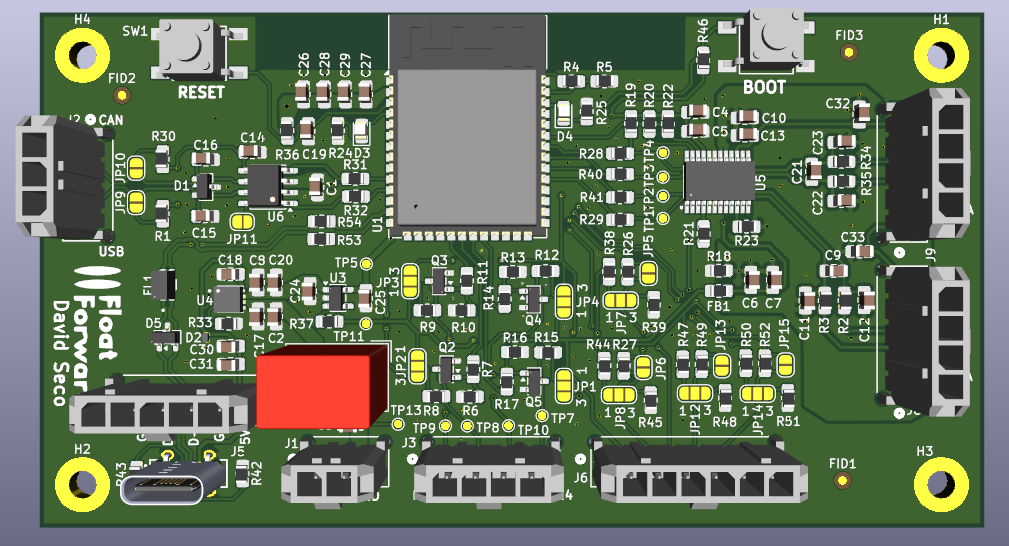
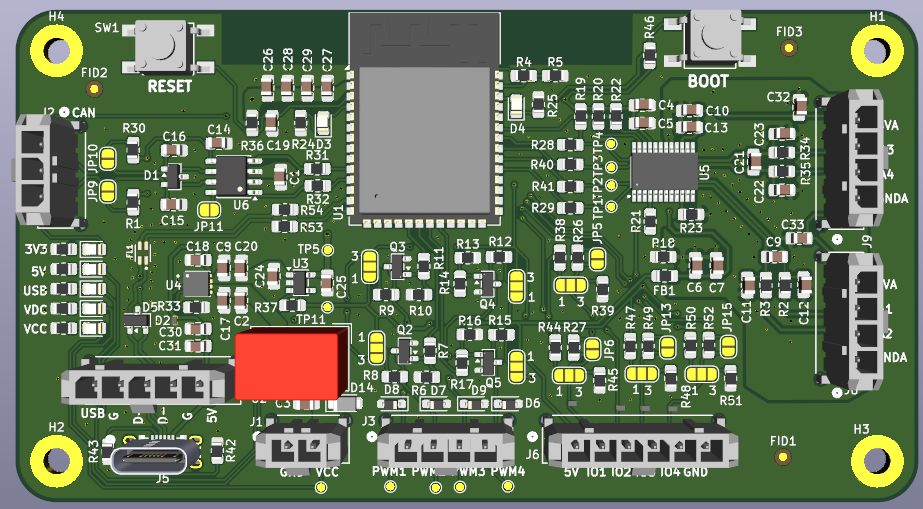
Refine ECU V2 documentation and clarify validation status

diff --git a/README.md b/README.md
@@ -1,66 +1,35 @@
 # DTU Float Forward — Embedded Control Unit
 
-Custom embedded control unit developed for the **DTU Float Forward electric racing boat**.
+Custom ECU hardware designed for the **DTU Float Forward electric racing boat**, combining sensing, communication and auxiliary control around an **ESP32-S3-WROOM module**.
 
-The ECU integrates sensing, actuator control, CAN communication and wireless telemetry around an **ESP32-S3**, providing a compact hardware platform for onboard monitoring and auxiliary control.
+> **Revision 2 status: schematic and PCB layout complete; not yet manufactured or hardware-validated.** The images are CAD renders and design exports. Earlier prototype work does not establish validation of the integrated V2 PCB.
 
-This repository documents the second hardware revision of the ECU, developed as an evolution of an earlier ESP32-S3 development-board prototype.
+![Revision 2 CAD render of the ECU PCB, top view](assets/pcb_render_top.png)
 
-## Project Context
+## Project Context and Contribution
 
 The ECU was developed as part of **DTU Float Forward**, DTU's electric racing boat project for the Monaco Energy Boat Challenge.
 
-The project combines embedded systems, electric propulsion, sensing, telemetry and energy-management development in a competition marine environment.
+I was responsible for the ECU hardware design, from system architecture and component selection to schematic design and PCB layout.
 
-## My Contribution
+## At a Glance
 
-I was responsible for the complete design of the ECU presented in this repository, from the system architecture and component selection to schematic design and PCB layout.
-
-## Repository Scope
-
-This repository is intended as a **technical portfolio and design case study**.
-
-It provides an overview of the ECU architecture and selected design decisions while intentionally excluding the complete implementation and manufacturing package.
-
-The following files are therefore **not publicly distributed**:
-
-* complete schematics
-* KiCad source files
-* PCB layout source
-* Gerber and manufacturing files
-* complete BOM
-* production firmware
-
-Selected schematic excerpts are included only where they help illustrate specific engineering decisions.
-
-## Overview
-
-The ECU is designed as a general-purpose embedded node for the boat, combining data acquisition, communication and auxiliary control in a single board.
-
-Its main functions include:
-
-* ESP32-S3 based processing and control
-* Four-channel high-resolution analog acquisition
-* CAN bus communication
-* Four configurable PWM outputs for external actuators
-* Four configurable auxiliary GPIO interfaces with support for external temperature and humidity sensor monitoring
-* Low-voltage battery monitoring
-* Native USB programming and debugging
-* Wi-Fi / MQTT telemetry
-
-![ECU PCB render](assets/pcb_render_top.png)
+| Area | Design scope |
+| --- | --- |
+| Processing | ESP32-S3-WROOM module with native USB programming/debugging |
+| Acquisition | AD7190 24-bit sigma-delta ADC with four external analog input lines |
+| Communication | CAN physical layer and Wi-Fi/MQTT telemetry |
+| Auxiliary interfaces | Four configurable PWM signal outputs and four configurable GPIO interfaces |
+| Power and monitoring | External/USB power paths, local 5 V and 3.3 V rails, auxiliary battery monitoring |
+| Firmware | ESP-IDF with modular drivers and application functionality; not included here |
 
 ## System Architecture
 
 ![ECU architecture](assets/ecu_architecture.svg)
 
-The **ESP32-S3** acts as the central controller.
+The **ESP32-S3** is the central controller. An external **AD7190** handles analog acquisition over SPI, while CAN connects the ECU to the boat network. Configurable GPIO interfaces support external sensors and pilot-interface signals, and PWM stages provide control signals for auxiliary actuators such as cooling devices.
 
-Low-level analog measurements are acquired through an external **AD7190 24-bit sigma-delta ADC**, while the CAN interface connects the ECU to the boat communication network.
-
-Additional GPIO interfaces are used for external sensors and pilot-interface signals, while configurable PWM output stages provide control signals for auxiliary actuators such as cooling devices.
-
-Telemetry data can be transmitted through Wi-Fi using MQTT.
+Wi-Fi provides the connection for MQTT telemetry. The sensors, actuators and MQTT broker shown in the diagram are external to the PCB.
 
 ## Hardware Design Highlights
 
@@ -68,135 +37,68 @@ Telemetry data can be transmitted through Wi-Fi using MQTT.
 
 ![Analog front-end](assets/schematic_blocks/analog_frontend.png)
 
-Low-level sensor acquisition is handled by an external **AD7190** rather than relying exclusively on the ESP32-S3 internal ADC.
+The external **AD7190** was selected for low-level sensor acquisition. The front-end includes RC input filtering, a filtered analog supply, local decoupling and a defined connection between analog and digital ground domains.
 
-The analog front-end provides four external inputs and includes:
+The ADC supports two differential or four pseudo-differential channels through a multiplexer. Its nominal 24-bit resolution describes the converter, rather than the achieved accuracy of the complete acquisition chain.
 
-* RC input filtering for high-frequency noise attenuation
-* filtered analog power supply
-* local decoupling
-* controlled connection between analog and digital ground domains
-* SPI communication with the ESP32-S3
-
-The architecture was designed for low-level measurements in the electrically noisy environment of an electric drivetrain.
+Reference: [Analog Devices AD7190 documentation](https://www.analog.com/en/products/ad7190.html).
 
 ### Configurable PWM Output Stages
 
 ![PWM output stages](assets/schematic_blocks/pwm_output_stages.png)
 
-Four configurable PWM output stages interface the 3.3 V ESP32-S3 logic with external actuators and control inputs.
+Each of the four channels uses an N-channel MOSFET as an open-drain-style signal output. A three-pad solder bridge selects the pull-up voltage during assembly, allowing adaptation to different actuator control inputs.
 
-Each channel uses an N-channel MOSFET as an open-drain-style output stage. A three-pad solder bridge allows the output pull-up voltage to be selected during assembly, making the same hardware compatible with different external voltage requirements.
-
-The stages intentionally invert the PWM logic, which is handled in firmware.
+The stages invert the logic, which firmware must account for. They provide control signals rather than direct motor or pump power switching.
 
 ### Configurable GPIO Interfaces
 
 ![GPIO interface](assets/schematic_blocks/gpio_interface.png)
 
-Four auxiliary GPIO channels were designed to support different external sensors, buttons and digital interfaces without requiring PCB modifications.
+Four auxiliary GPIO channels support external sensors, buttons and digital interfaces. Solder bridges provide assembly-time selection of pull-up or pull-down bias and an optional bypass of the series resistor.
 
-Each channel provides assembly-time configuration through solder bridges:
-
-* selectable pull-up or pull-down bias
-* series resistance for basic input protection
-* optional bypass of the series resistor
-
-This allows the same PCB to be adapted to different external devices during system integration.
+The series resistor limits current; external signal voltages must remain compatible with the ESP32-S3 pins.
 
 ### PCB Layout
 
-![PCB top-layer layout](assets/pcb_layout_top.png)
+![PCB layout export showing front and back copper routing](assets/pcb_layout_top.png)
 
-The PCB was organised by functional area, with particular attention to the noise-sensitive analog acquisition section, external interface accessibility and the ESP32-S3 antenna keepout.
+The layout is organised by functional area, with attention to the analog acquisition section, connector accessibility, configuration points and the module antenna region. The export shows routing on both copper layers.
 
-## Additional Design Decisions
+## Supporting Interfaces
 
-### Integrated ESP32-S3
+### CAN
 
-The first prototype used an ESP32-S3 development board to enable rapid firmware development and system validation.
+A 3.3 V CAN transceiver integrates the physical layer on the board. The interface includes ESD protection and split termination selectable through solder bridges, allowing configuration for an intermediate node or a node at a physical bus end.
 
-For the second revision, the development board was replaced by an **ESP32-S3-WROOM module directly integrated into the PCB**, reducing external wiring and allowing the complete ECU to be designed around the application requirements.
+### USB and Power
 
-### CAN Interface
+The USB-C connection uses the ESP32-S3 native USB interface for programming and debugging, avoiding an external USB-to-UART converter.
 
-The CAN physical layer is integrated directly on the board using a 3.3 V CAN transceiver.
-
-The interface includes:
-
-* ESD protection on the external bus
-* configurable split termination
-* assembly-time termination selection through solder bridges
-
-This allows the ECU to operate either as an intermediate CAN node or as a terminated node at one end of the bus.
-
-### Native USB Interface
-
-The ESP32-S3 native USB interface is used for firmware programming and debugging without requiring an external USB-to-UART converter.
-
-The board provides a USB-C interface together with protection and filtering components for connection to the microcontroller.
-
-### Power Architecture
-
-The ECU contains its own onboard power regulation.
-
-The design supports both the normal external ECU supply and USB power during development, allowing the board electronics to be programmed and tested without powering the complete boat electrical system.
-
-Local 5 V and 3.3 V rails supply the analog, digital and communication circuitry.
+The power architecture provides external-supply and USB power paths for onboard operation and bench development, with local 5 V and 3.3 V rails.
 
 ### Battery Monitoring
 
-The low-voltage battery is monitored through a dedicated resistive divider connected to an analog-capable ESP32-S3 input.
-
-This provides an independent measurement of the auxiliary battery voltage for onboard monitoring and telemetry.
+A dedicated resistive divider scales the auxiliary battery voltage for an analog-capable ESP32-S3 input, providing a separate measurement for monitoring and telemetry.
 
 ## Development
 
-The ECU was developed through an iterative prototyping process.
+**Revision 1 — Functional prototype.** An ESP32-S3 development board provided the platform for firmware development and functional prototyping of acquisition, CAN, auxiliary control and telemetry.
 
-### Revision 1 — Functional Prototype
+**Revision 2 — Integrated ECU.** The custom PCB replaces the development board with a directly mounted ESP32-S3-WROOM module and integrates the supporting interfaces, power circuitry and assembly-time configuration options. Separate connectors organise the external interfaces for system integration.
 
-The initial system was built around an ESP32-S3 development board.
-
-This version was used to develop and validate the main embedded architecture, including sensor acquisition, CAN communication, actuator control and telemetry.
-
-### Revision 2 — Integrated ECU
-
-The second revision replaces the development board with an ESP32-S3-WROOM module integrated directly onto the PCB.
-
-The redesign also integrates and refines the:
-
-* CAN physical layer
-* native USB programming interface
-* onboard power architecture
-* analog acquisition front-end
-* PWM output stages
-* configurable GPIO interfaces
-* battery monitoring circuit
-* assembly-time configuration options
-
-Revision 2 has completed the PCB design stage but **has not yet been manufactured or hardware-validated**.
+The next milestone is pre-manufacture review, followed by assembly and measured board bring-up. The [validation plan](docs/validation.md) describes the remaining checks and evidence to collect.
 
 ## Firmware
 
-The ECU firmware is developed using **ESP-IDF** and follows a modular architecture that separates hardware drivers from application-level functionality.
+The firmware uses **ESP-IDF** with a modular architecture separating hardware drivers from application functionality. Its scope includes AD7190 acquisition, cooling-system control, battery and environmental sensing, CAN, network time synchronisation and MQTT telemetry.
 
-Firmware functionality associated with the ECU includes:
+The complete boat firmware is not included. Reusable hardware drivers may be published separately as standalone projects.
 
-* AD7190 acquisition
-* cooling-system control
-* battery monitoring
-* temperature and humidity acquisition
-* CAN communication
-* network time synchronisation
-* MQTT telemetry
+## Repository Scope and Documentation
 
-The complete boat firmware is not included in this repository. Reusable hardware drivers may be published separately as standalone projects.
-
-
-## Documentation
-
-More details about the hardware development are available here:
+This repository is a **technical portfolio and design case study** containing an architecture overview, selected schematic excerpts and PCB images. Complete schematics, KiCad/PCB sources, manufacturing files and the complete BOM are excluded.
 
 - [Design Decisions](docs/design_decisions.md)
 - [Development History](docs/development.md)
+- [Validation Status and Plan](docs/validation.md)

diff --git a/docs/design_decisions.md b/docs/design_decisions.md
@@ -4,13 +4,15 @@ This document describes some of the main engineering decisions behind the second
 
 The objective of the redesign was not only to replace the development board used during prototyping, but to integrate the required sensing, communication and auxiliary-control interfaces into a compact and configurable PCB suitable for installation in the boat.
 
+> **Design status:** V2 schematic and layout are complete. The PCB has not been manufactured or hardware-validated. Benefits below describe design intent unless explicitly identified as prototype experience. See the [validation plan](validation.md).
+
 ## Integrated ESP32-S3
 
-The first ECU prototype was built around an ESP32-S3 development board, selected for its integrated Wi-Fi connectivity and straightforward MQTT support. This provided a convenient platform for firmware development and allowed the main system architecture to be validated before committing to a fully integrated PCB.
+The first ECU prototype was built around an ESP32-S3 development board, selected for its integrated Wi-Fi connectivity and straightforward MQTT support. This provided a convenient platform for firmware development and allowed the main system architecture to be explored through functional prototyping before committing to a fully integrated PCB.
 
 In Revision 2, the development board was replaced by an **ESP32-S3-WROOM module directly integrated onto the PCB**.
 
-This reduced external wiring and allowed the supporting circuitry, interfaces and GPIO allocation to be designed specifically around the requirements of the ECU.
+This is intended to reduce external wiring and allows the supporting circuitry, interfaces and GPIO allocation to be designed specifically around the requirements of the ECU.
 
 Native USB support was also an important advantage of the ESP32-S3, as it allows firmware programming and debugging without an additional USB-to-UART converter.
 
@@ -26,9 +28,9 @@ The AD7190 was selected after considering several high-resolution ADC alternativ
 * digital filtering flexibility
 * integration complexity
 
-Using an external ADC also provides significantly better low-level measurement capability than relying exclusively on the ESP32-S3 internal ADC.
+The external ADC was selected to target low-level measurements. The achieved noise, accuracy and usable bandwidth of the complete V2 acquisition chain have not been measured.
 
-The final analog subsystem provides four external inputs.
+The analog subsystem exposes four input lines. The AD7190 supports two differential or four pseudo-differential channels using a multiplexer, rather than simultaneous sampling of four differential channels. Its nominal 24-bit conversion format is not a claim of 24-bit board accuracy. See [Analog Devices documentation](https://www.analog.com/en/products/ad7190.html).
 
 Each input includes an RC filter to attenuate high-frequency noise arriving through the external wiring. The analog supply is additionally filtered from the main 5 V rail, with local decoupling around the ADC.
 
@@ -47,7 +49,7 @@ This provides two main advantages:
 
 A three-pad solder bridge on each channel selects the pull-up voltage used by the output stage.
 
-Because the MOSFET stage is inverting, the corresponding inversion is handled in firmware.
+Because the MOSFET stage is inverting, firmware must account for the inversion. These outputs are intended for actuator control inputs; direct motor or pump power switching is outside the documented scope. Pull-up voltage, loaded rise time, sink current and reset-state behavior require verification.
 
 This configuration was chosen to provide a simple hardware interface while keeping the output stage adaptable to different external actuators.
 
@@ -61,10 +63,12 @@ The interface supports:
 
 * selectable pull-up bias
 * selectable pull-down bias
-* series resistance for basic protection
+* series resistance for limited current limiting
 * optional bypass of the series resistor
 
 This allows the same physical GPIO interface to be adapted to external sensors, pilot buttons or other digital devices without redesigning the PCB.
+
+This configuration does not establish overvoltage protection or 5 V tolerance at the microcontroller pins. Connected signal levels must be checked against the device limits.
 
 The solder bridges are intended as assembly-time configuration options rather than switches that are changed during normal operation.
 
@@ -121,4 +125,12 @@ The layout also prioritises accessibility to:
 * supply test points
 * mounting holes
 
-Overall, the layout reflects the main objective of Revision 2: integrating the previously validated functionality into a compact PCB while retaining enough hardware configurability for system integration and future development.
+Overall, the layout reflects the main objective of Revision 2: integrating the functionality developed on the earlier prototype into a compact PCB while retaining enough hardware configurability for system integration and future development.
+
+## Review Limits and Next Steps
+
+The selected screenshots explain circuit intent; they do not replace a review of complete schematics, PCB sources, component ratings and manufacturing outputs. No ERC/DRC report, manufacturing review, RF test or bench measurement is included here.
+
+Before manufacture, verify the module antenna clearance on every copper layer, board geometry and intended enclosure against the [Espressif ESP32-S3 hardware design guidelines](https://www.espressif.com/sites/default/files/documentation/esp32-s3_hardware_design_guidelines_en.pdf). A rendered keepout outline alone does not establish compliance or RF performance.
+
+See [Validation Status and Plan](validation.md) for the remaining checks.

diff --git a/docs/validation.md b/docs/validation.md
@@ -1,0 +1,46 @@
+# Validation Status and Plan
+
+**Revision 2: schematic and PCB layout complete; not yet manufactured or hardware-validated.**
+
+This is a proposed review and test plan, not a record of completed tests. Exact limits and pass criteria must be established from the full design, component specifications and boat interface requirements before testing.
+
+## Evidence Available
+
+| Item | What this repository establishes |
+| --- | --- |
+| Architecture diagram | Intended functional partition and signal paths |
+| Selected schematic excerpts | ADC filtering, configurable PWM signal stages and GPIO configuration |
+| PCB CAD render and layout export | Visual documentation of the V2 design |
+| Development history | Narrative of the earlier development-board prototype; no test logs included |
+| V2 bench or integration results | None included; hardware validation is pending |
+
+## Before Manufacture
+
+- Review complete schematics and PCB sources; resolve and record ERC/DRC findings and any justified exceptions.
+- Check footprints, pin mappings, component ratings, connector orientation, assembly options and manufacturing outputs.
+- Verify analog input modes, allowable input/common-mode ranges, reference arrangement and ADC configuration for the actual sensors.
+- Review external and USB power paths, source isolation, input range, startup and thermal budget.
+- Check PWM pull-up selections and intended loads; verify external GPIO signal levels and startup states.
+- Verify CAN logic compatibility, termination options, bus protection and intended cable topology.
+- Check antenna clearance across all layers and the intended enclosure against the manufacturer's guidance.
+
+## After Assembly
+
+| Area | Planned verification | Evidence to retain |
+| --- | --- | --- |
+| Initial power-up | Inspection, resistance checks, current-limited startup, rail voltages and current consumption | Assembly configuration, supply conditions and measured values |
+| External/USB power | Each source independently and source transitions; unintended backfeed and thermal behavior | Voltage/current traces and temperatures at defined loads |
+| Boot and USB | Boot/reset behavior, flashing and debug access | Firmware version, procedure and result |
+| Analog acquisition | Known inputs, channel sequence, calibration, noise and settling at selected gain/filter settings | Raw data, reference instrument, settings and error/noise analysis |
+| PWM interfaces | Polarity, voltage levels, rise/fall time, duty cycle and reset behavior under representative loads | Oscilloscope captures, pull-up selection and load conditions |
+| GPIO and battery sensing | Selected bias/bypass settings, valid logic levels and battery-divider calibration | Configuration, input sweep and measured error |
+| CAN | Communication with known nodes, bitrate, termination and error/recovery behavior | Bus setup, traffic captures and error counters |
+| Wi-Fi/MQTT | Connectivity, reconnection and behavior in the intended enclosure | Network conditions, logs and communication range/throughput observations |
+| Integration | Sensor/control operation, loss-of-communication behavior and representative electrical noise/load conditions | Defined test scenarios, observed results and unresolved issues |
+
+Keep prototype results and integrated V2 results separate. Do not describe the board as validated, deployment-ready or proven in competition until the relevant evidence exists.
+
+## Manufacturer References
+
+- [Analog Devices AD7190 documentation](https://www.analog.com/en/products/ad7190.html)
+- [Espressif ESP32-S3 hardware design guidelines](https://www.espressif.com/sites/default/files/documentation/esp32-s3_hardware_design_guidelines_en.pdf)

diff --git a/docs/development.md b/docs/development.md
@@ -2,7 +2,7 @@
 
 The DTU Float Forward ECU was developed through two main hardware iterations.
 
-The goal of the process was to validate the embedded architecture using easily accessible development hardware before integrating the complete system into a custom PCB.
+The goal of the process was to explore and test the embedded architecture using easily accessible development hardware before integrating the complete system into a custom PCB.
 
 ## Revision 1 — Functional Prototype
 
@@ -10,7 +10,7 @@ The first implementation used an **ESP32-S3 development board** as the central c
 
 This approach reduced hardware development time during the early stages of the project and allowed firmware and peripheral integration to be developed before committing to a fully integrated PCB.
 
-The prototype architecture was used to develop and validate the main ECU functionality, including:
+The prototype architecture was used to develop and exercise the main ECU functions listed below. This repository does not include test records or measured results for these functions:
 
 * analog sensor acquisition
 * CAN communication
@@ -68,3 +68,9 @@ The design represents the transition from a development-board-based functional p
 **Revision 2 has not yet been manufactured or hardware-validated.**
 
 For this reason, the functionality demonstrated using the development-board prototype should not be interpreted as hardware validation of the integrated Revision 2 PCB.
+
+## Evidence and Next Milestone
+
+The images in this repository are design exports, not photographs of an assembled V2 board. The documentation records design intent and prototype experience; it does not establish V2 performance, reliability or readiness for operation on the boat.
+
+The next milestone is a pre-manufacture design review followed by assembly and measured bring-up. See [Validation Status and Plan](validation.md). Record future results against the tested hardware revision and firmware version, with test conditions and pass/fail criteria.
